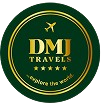
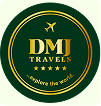
clients added

diff --git a/src/app/clients/page.js b/src/app/clients/page.js
@@ -51,7 +51,7 @@ const ClientData = [
   },
   {
     id: 3,
-    image: Client3,
+    image: DMJTravel,
   },
   {
     id: 4,
@@ -59,7 +59,7 @@ const ClientData = [
   },
   {
     id: 5,
-    image:  Client5,
+    image:  Gigs,
   },{
     id: 6,
     image:  Client6,
@@ -151,27 +151,31 @@ const page = () => {
             </div>
           </div>
         </div>
-        <div>
+        <div className="my-8">
           <span className="p-3 rounded-3xl bg-white border-2 border-[#E26015] font-semibold">
             Our Clients
           </span>
           <h3 className="text-[#333] font-bold text-4xl md:text-3xl lg:text-3xl my-4">
             Collaborating with Forward-Thinking Clients
           </h3>
-          <div className="w-full flex flex-wrap gap-14 my-14">
+          <div className="w-full flex flex-wrap gap-2 my-14">
             {ClientData.map((client) => (
-              <div key={client.id} className="w-[100%] md:w-[50%] lg:w-[15%] border-[#F7F7F8] rounded-lg shadow-md p-4">
-                <div className="w-[120px] h-[120px]  flex justify-center items-center mx-auto">
+              <div key={client.id} className="w-[40%] md:w-[50%] lg:w-[13%] border-[#F7F7F8] rounded-lg p-4">
+                <div className="w-[100px] h-[100px]  flex justify-center items-center mx-auto">
                   <Image
-                    src={client.image}
-                    alt=""
-                    className="object-fit w-full h-full"
-                  />
+          src={client.image}
+          alt={`${client.name} logo`}
+          width={100}
+          height={100}
+          quality={100}
+          className="object-contain w-full h-full"
+          priority
+        />
                 </div>
               </div>
             ))}
           </div>
-          <div className="my-10">
+          <div className="my-14 py-8">
             <OurStand />
           </div>
         </div>
